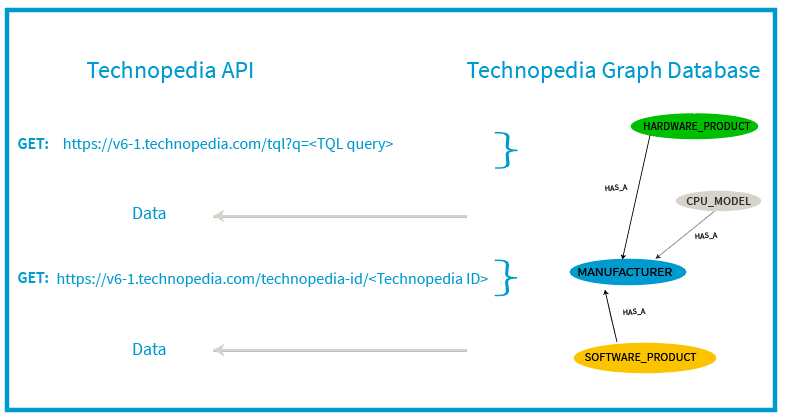
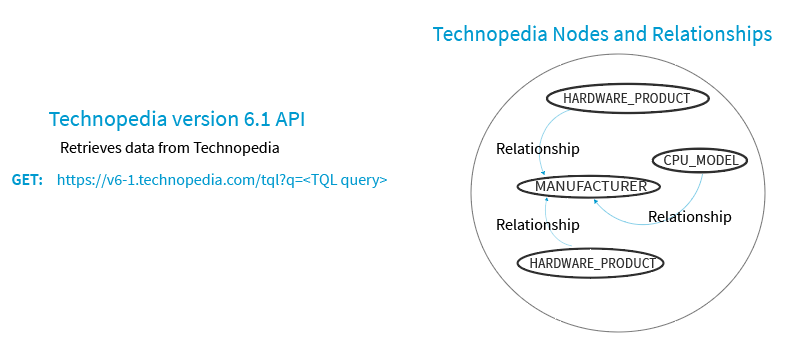
updates

diff --git a/_documentation/overview.md b/_documentation/overview.md
@@ -4,16 +4,16 @@ title: Overview
 position: 1.01
 description: 
 content_markdown: |-
-  Technopedia version 6.1 API enables cloud-based access to asset data in Technopedia, which you use to manage your IT assets with respect to risk, control, governance, costs and business compliance. 
+  Technopedia version 6.1 API enables access to asset data in Technopedia, which you use to manage your IT assets with respect to risk, control, governance, costs and business compliance. 
   <br>
   Technopedia's structured database catalog categorizes more than 170,000 software releases and 200,000 hardware models, and includes data from mulitiple business categories.
   <br>   
   
   #### How to use this documentation
   <br>
-  The objective of this API documentation is to enable you use Technopedia API and Technopedia query language to retrieve data from the the Technopedia database.
-  The first section of this documentation is about getting started with the API and creating queries with the Technopedia query language.
-  The API section references several nodes in Technopedia and provides mulitiple examples on how to retrive data.
+  The objective of this API documentation is to enable you use Technopedia version 6 API and Technopedia query language (TQL) to retrieve data from the Technopedia database.
+  The first section of this documentation is about getting started with the API and creating queries by using TQL.
+  The API section references several nodes in Technopedia and provides mulitiple examples about retrieving data.
 
   To learn about using the API and the Technopedia query language, read this overview, and then take the following steps:
   
@@ -24,15 +24,14 @@ content_markdown: |-
    3. Learn about using the Technopedia query language to write queries that you use with the API to query Technopedia database. <br>
      [Technopedia queries](../#documentationtql104)
   
-  To retrieve data from Technopedia, the most common practice you'll undertake is to write queries to use with the API.
-  You use the Technopedia query language (TQL) to write queries that are similar to SQL in structure. <br>
-    
+  To retrieve data from Technopedia, the most common practice you'll undertake is to write TQL queries to use with the API.
+  
+
   #### Making API GET requests to retrieve asset data 
   <br>
   The Technopedia version 6.1 API provides you with read access to the Technopedia database by using an API GET request to retreive asset data.
     * To get access to the Technopedia database, all you require is an API key that you get from Flexera technial support.<br>
-    * You make an API GET request by using cURL or an API client to the `/tql` or `/technopedia-id` endpoint. <br>
-      The `/tql` endpoint requires a Technopedia query languge query statement to describe the data that you want to retrieve.<br>
+    * You make an API GET request to the `/tql` endpoint, which requires a TQL query statement to describe the data that you want to retrieve.<br>
     * Data is returned as key-value pairs in JSON format. <br>
 
   The following query example is an API GET request that uses the TQL endpoint to retrieve software product names from Technopedia. <br>
@@ -49,7 +48,7 @@ content_markdown: |-
     
   #### Technopedia Graph Database
   <br>
-  Technopedia graph database is a data model that consists of a collection of nodes that are joined together by relationships.
+  The Technopedia graph database is a data model that consists of a collection of nodes that are joined together by relationships.
   <br>
 
    * Nodes represent entities that are equivalent to a records classification that store a specific data category such as hardware or software. 
@@ -110,45 +109,7 @@ left_code_blocks:
       {  
 
       
-    title: TQL endpoint
-    language: javascript
-  - code_block: |-
-      GET:  https://v6-1.technopedia.com/technopedia-id/<technopedia_id>
-
-      EXAMPLE:
-
-      GET:  https://v6-1.technopedia.com/technopedia-id/359e53c0-6cda-4e3b-aaa1-2b05537ca718
-
-      Returns data based on the Technopedia ID
-      
-
-      RESPONSE SAMPLE
-
-      {
-          "result": {
-              "attributes": {
-                  "alias": null,
-                  "component": null,
-                  "desupported_flag": null,
-                  "discontinued_flag": null,
-                  "family": "Windows Live",
-                  "is_suite": "FALSE",
-                  "modified_at": "2011-03-21 17:47:50",
-                  "product": "ID Web Authentication Software Development Kit (SDK)",
-                  "url": "http://www.microsoft.com/Downloads/details.aspx?familyid=E565FC92-D5F6-4F5F-8713-4DD1C90DE19F&displaylang=en"
-              },
-              "created_at": "2008-03-25 22:07:06",
-              "created_by": "",
-              "owner": "",
-              "quality_grade": 0,
-              "technopedia_id": "359e53c0-6cda-4e3b-aaa1-2b05537ca718",
-              "label": "SOFTWARE_PRODUCT"
-            }
-        ]
-      {  
-
-    title: Technopedia ID endpoint
-    language: javascript  
+    
 right_code_blocks:
   - code_block: |2
       Technopedia query language (tql) endpoint
